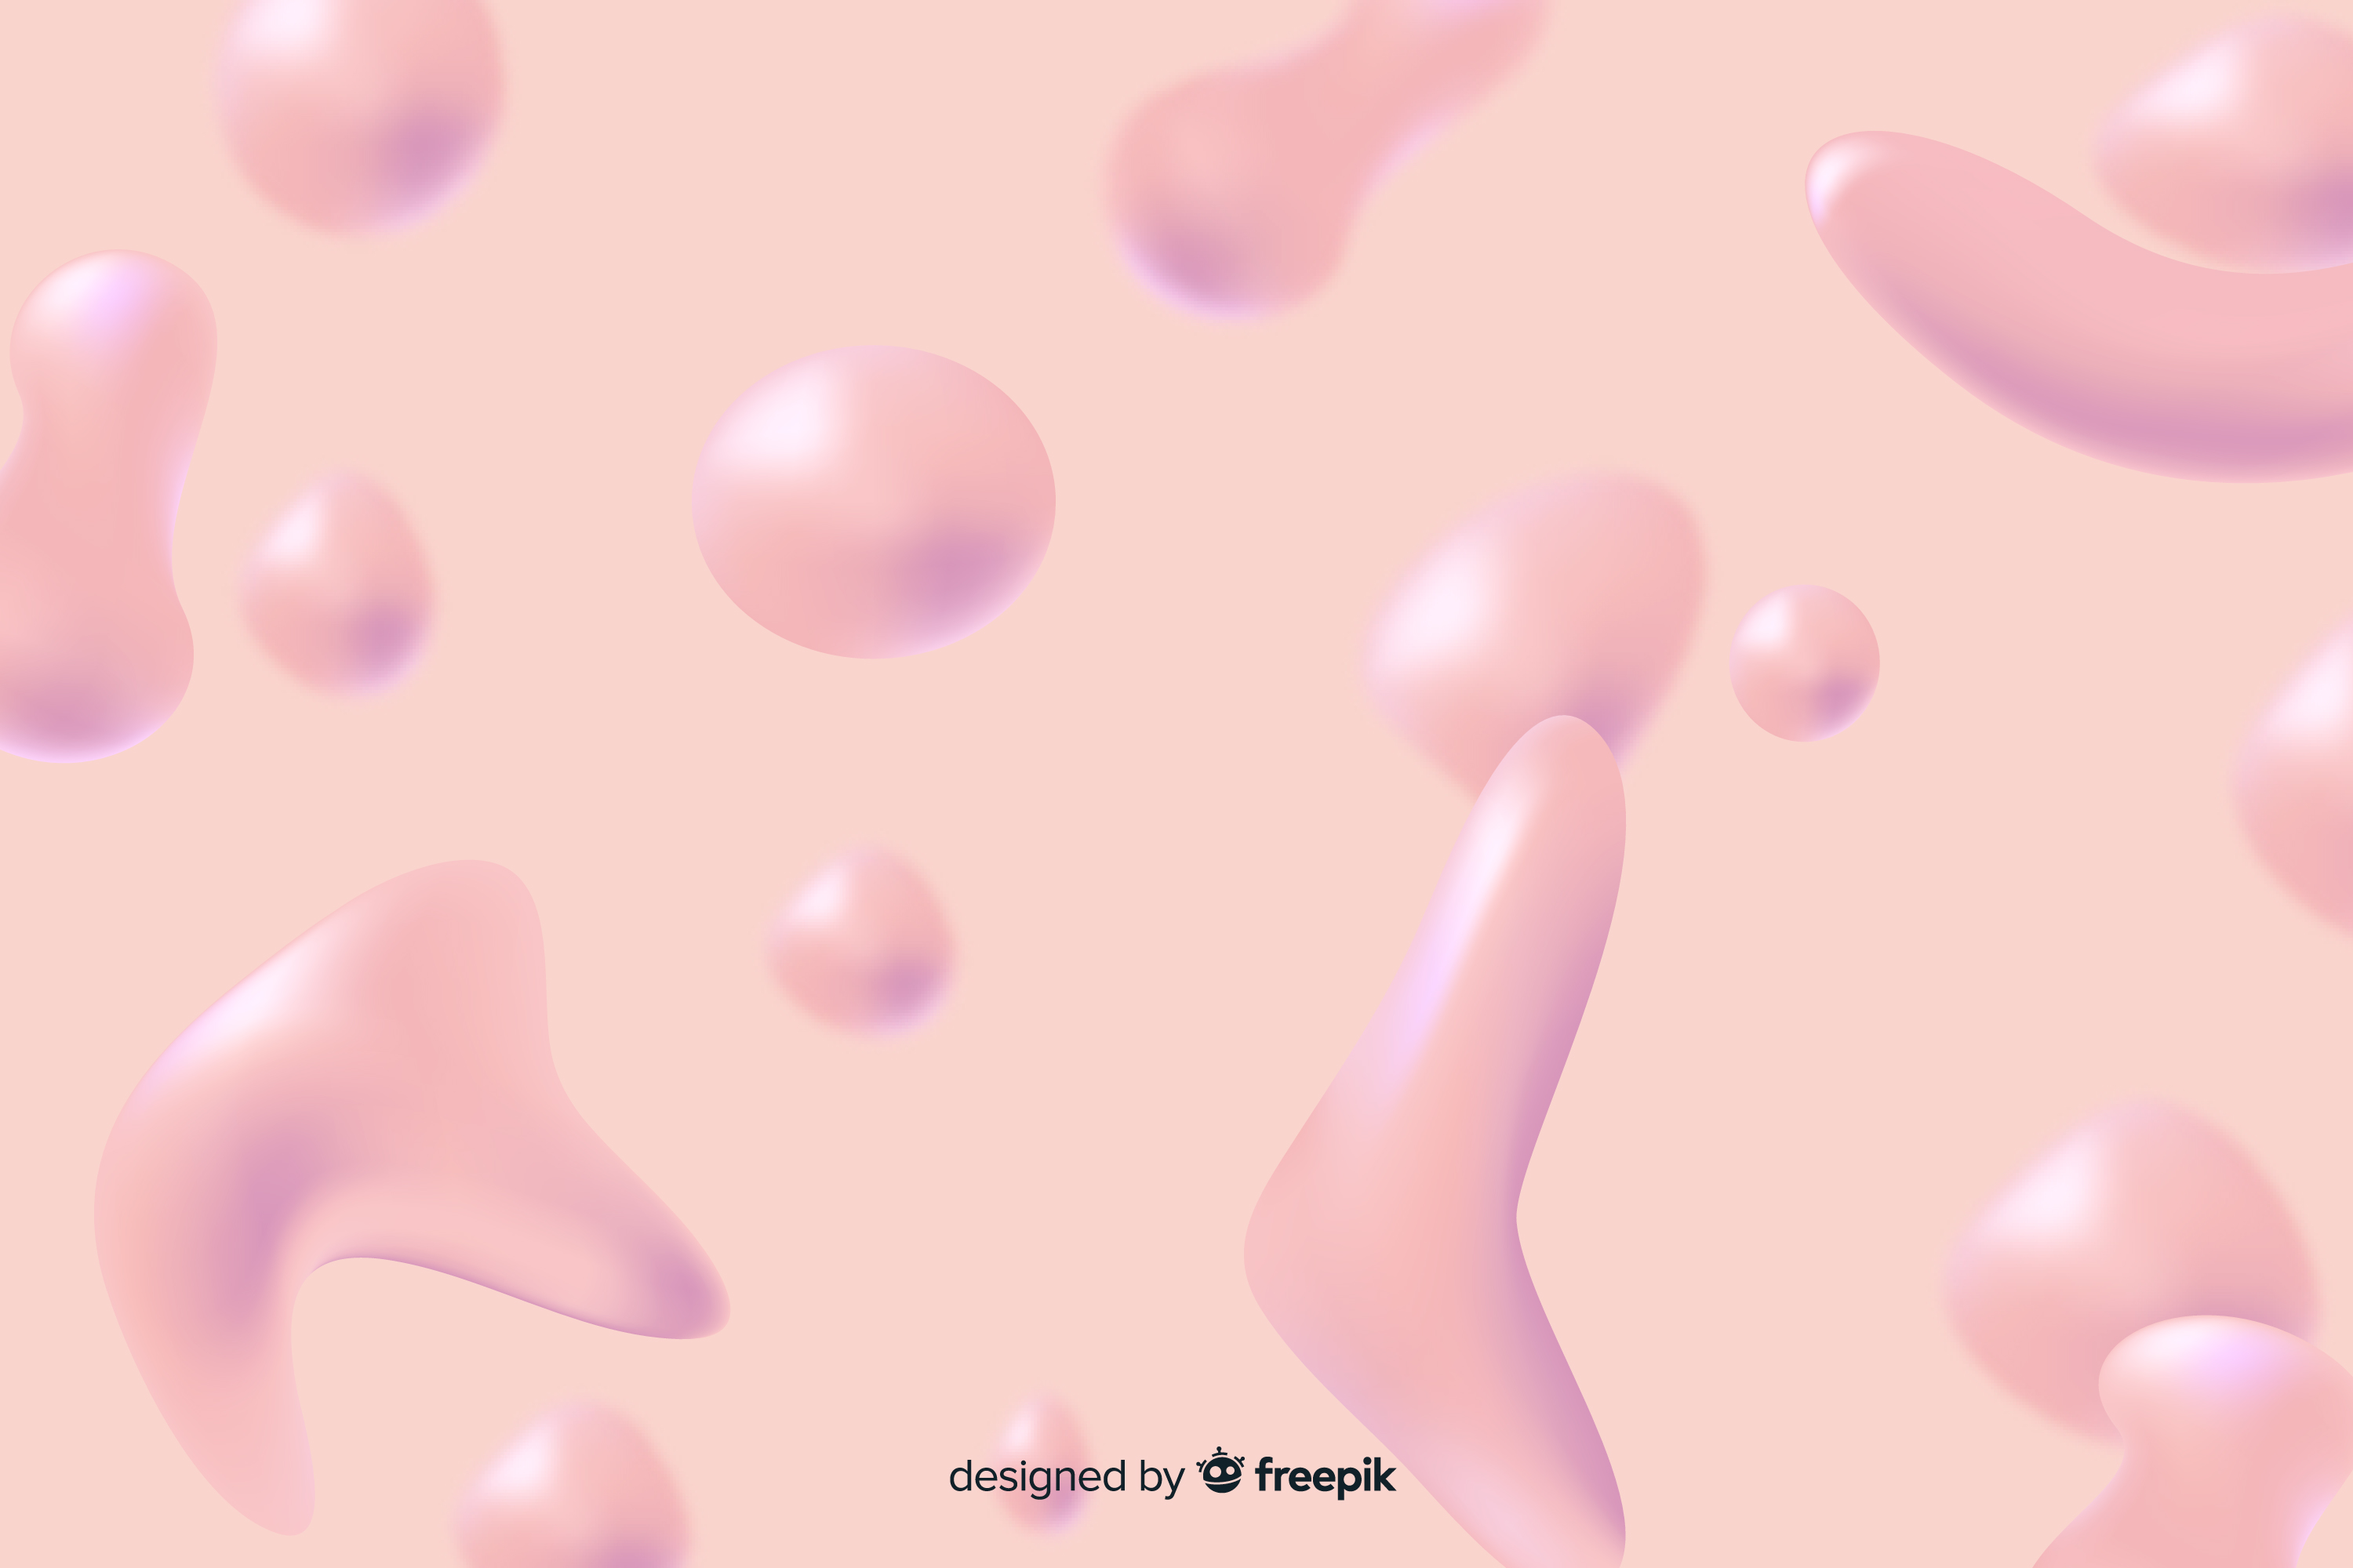
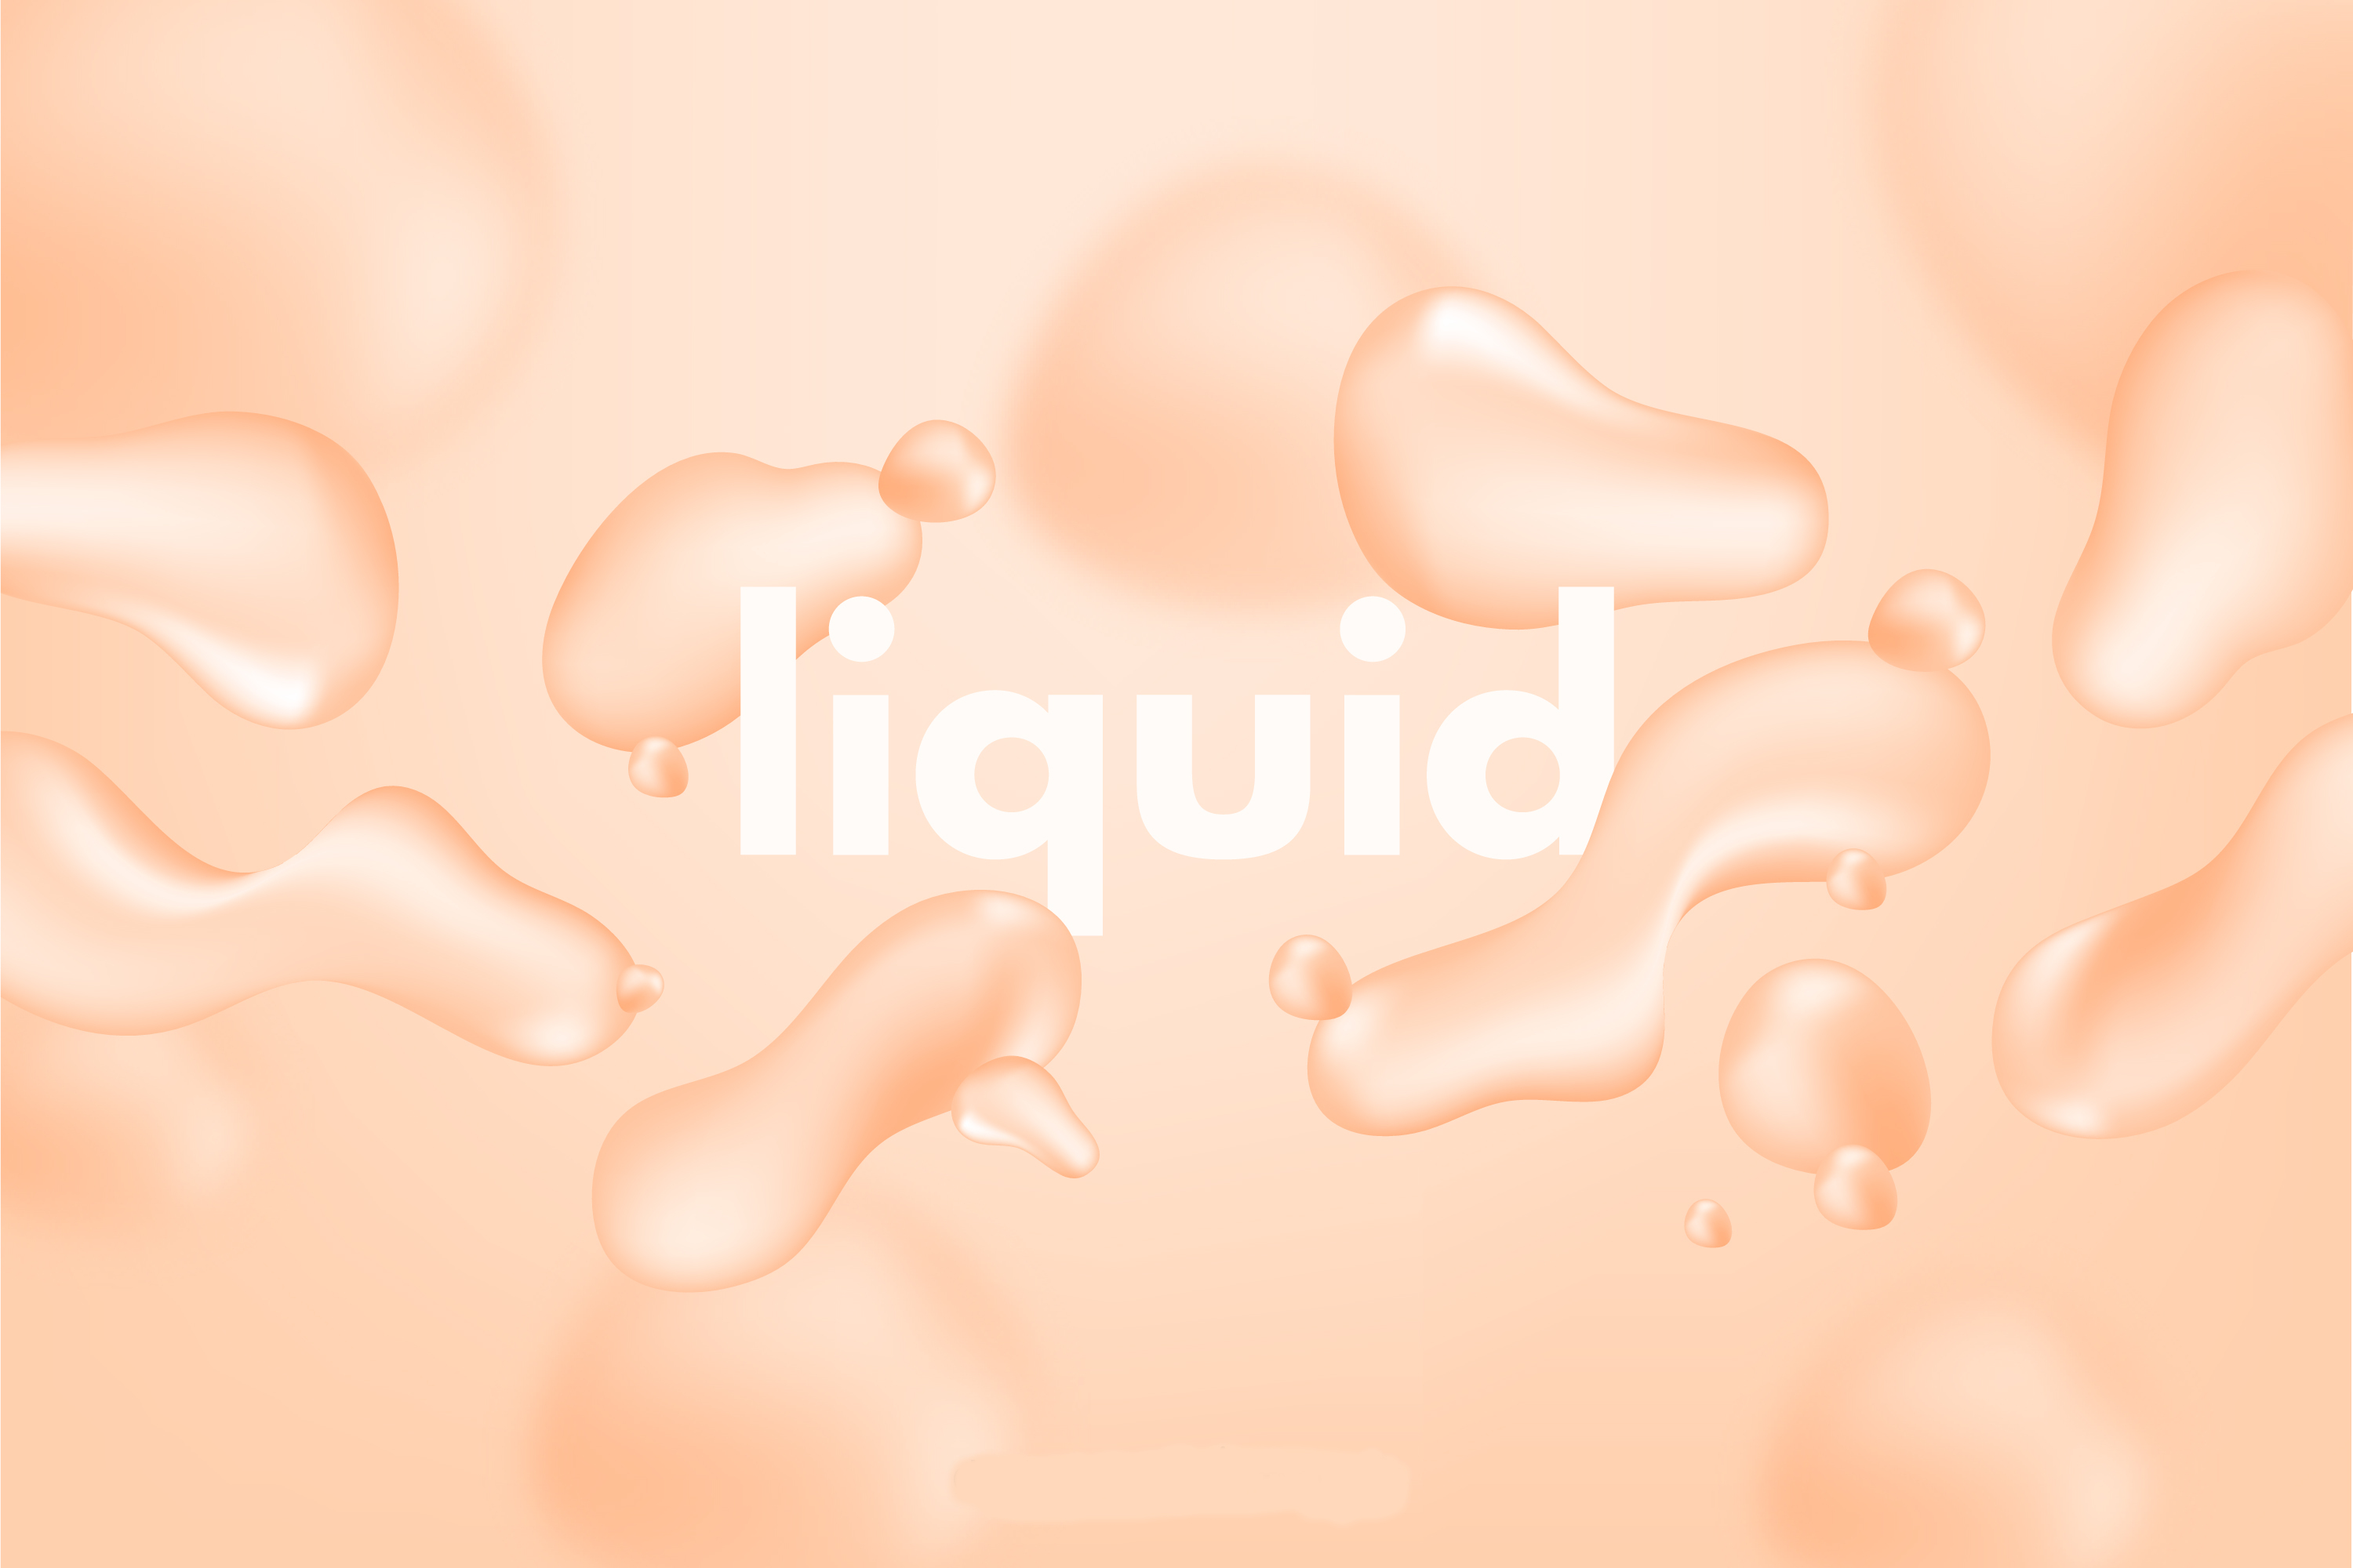
implements styling for unlogged homepage

diff --git a/client/src/components/home/UnloggedHome.js b/client/src/components/home/UnloggedHome.js
@@ -3,9 +3,35 @@ import { Link } from 'react-router-dom';
 
 const UnloggedHome = () => {
   return (
-    <div className="login-signup">
-      <div> <Link to="/login"><button className="btn btn-primary auth-btn">Login</button></Link> </div>
-      <div><Link to="/Signup"><button className="btn btn-primary auth-btn">Sign Up</button></Link></div>
+    <div style={{
+      backgroundImage: `url("/background.jpg")`, 
+      width: '100vw', 
+      height: '100vh', 
+      backgroundRepeat: 'no-repeat',
+      backgroundSize:'cover', 
+      backgroundPosition:'top',
+      display: 'flex',
+      flexDirection: 'column-reverse'
+      // minHeight: '-webkit-fill-available',
+      }} >
+        <div style={{
+          color: 'white',
+          display: 'flex', 
+          flexDirection: 'column',
+          justifyContent: 'center', 
+          alignItems: 'center',
+          width: '100vw', 
+          height: '100vh'}}>
+        <h1 style={{ 
+          fontSize: '100px',
+          fontWeight: 'bold'
+          }}>liquid</h1>
+          <h5>Your personal expense-manager</h5>
+          </div>
+      <div className="login-signup">
+        <div> <Link to="/login"><button className="btn btn-primary auth-btn">Login</button></Link> </div>
+        <div><Link to="/Signup"><button className="btn btn-primary auth-btn">Sign Up</button></Link></div>
+      </div>
     </div>
   )
 }

diff --git a/client/src/App.js b/client/src/App.js
@@ -73,9 +73,9 @@ class App extends React.Component {
           padding: '10px 20px 20px 20px'}}>
           <Route path='/signup' render={() => <Redirect to='/'></Redirect>} />
           <Route path='/login' render={() => <Redirect to='/'></Redirect>} />
-          <Navbar
+          {/* <Navbar
             userInSession={this.state.loggedInUser}
-            getUser={this.getTheUser} />
+            getUser={this.getTheUser} /> */}
           <Switch>
             <Route exact path='/' render={() =>
               <Dashboard
@@ -108,9 +108,9 @@ class App extends React.Component {
     } else {
       return (
         <div className='App'>
-          <Navbar
+          {/* <Navbar
             userInSession={this.state.loggedInUser}
-            getUser={this.getTheUser} />
+            getUser={this.getTheUser} /> */}
           <Switch>
             <Route exact path='/' component={UnloggedHome} />
             <Route exact path='/signup' render={() => <Signup getUser={this.getTheUser} />} />

diff --git a/client/src/index.css b/client/src/index.css
@@ -29,17 +29,19 @@ code {
 
 
 .auth-btn{
- background-color: #FF3366;
+ background-color: #ffc38a;
  border: none;
  margin: 5px;
 }
 
 .login-signup{
   display: flex;
+  justify-content: flex-end;
+  margin: 10px;
 }
 
 .auth-btn:hover {
-  background-color: #fa285c;
+  background-color: #ffc38a;
   border: none;
 }
 
@@ -236,16 +238,3 @@ form {
 .auth-link:hover{
   color: grey
 }
-
-
-
-
-
-
-
-
-
-
-
-
-
